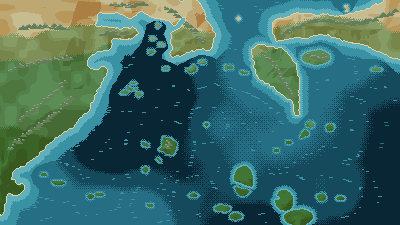
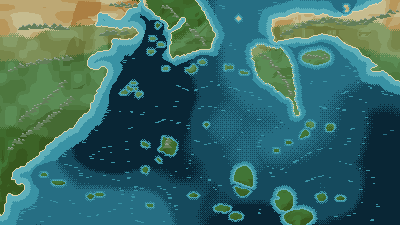
한반도 — 반도를 지운 것은 지형이 아니라 색과 렌더였다
세 회차 동안 해안선 다각형을 고쳐도 한반도가 「곶」으로 읽혔다. 좌표까지
옮겼는데도 그대로였다. 원인은 다각형이 아니라 둘 다 다른 데 있었다.

① 색 — CLIMATE.temperate의 지대 띠가 위도만 봐서 반도의 y0~29가
   만주와 같은 모래색이었다. 눈에는 y29~58짜리 혹만 남는다.
   zones.extra로 한반도만 띠에서 빼 전체를 초록으로.
② 지형 — 다각형에 21px로 있던 서한만이 PNG에는 한 픽셀도 없었다.
   coastOctaves의 push 최대치가 +14.1px인데 좁은 물길 가드는
   seaThick<8일 때만 듣는다. 그 사이, 폭 16~28px 물길은 통째로 메워진다.
   랴오둥을 물리고 서안을 밀어 30~44px로 넓혔다.

  반도로 보이는 세로   y22~58 = 36px  →  y6~58 = 53px
  세로 : 평균폭        0.80 : 1        →  1.43 : 1
  강진                 뭍 0px(섬)      →  뭍 1px · 섬 항구 0

가로가 더 길었다는 것이 그동안의 실상이다.

목표로 걸었던 2.5:1은 이 좌표계에서 불가능하다 — 위도 9.55px/° 대
경도 12.2px/°로 가로가 1.6배 늘어난 판이고, 폭은 군산창(170,36)↔염포
(216,38) 46px이 못박는다. 실제 상한은 약 1.5:1이고 지금이 그 95%다.
더 가려면 관문인 염포를 옮겨야 해서 멈췄다.

규슈:혼슈 면적비 1.6 → 3.4:1(혼슈 3,187→5,410px · 규슈 1,958→1,605px).
남미는 대륙을 가르던 곧은 지대 금을 없애고 지대를 3색으로 나눴다.

★ 「황해가 가장 어둡다」는 실측이 뒤집었다. 상자별 평균밝기가 황해 82.2 ·
동중국해 49.5 · 태평양 52.8로, 황해는 일곱 중 셋째로 밝다. 대륙붕 가중치를
4.5배로 올려 아홉 장을 다시 뽑아 봐도 2점만 움직인다 — 문턱이 분위수라
원양의 33%는 늘 최심색이기 때문이다. scene.js를 파일 단위로 되돌렸다.
아홉 장을 다시 뽑았는데 나머지 일곱 PNG의 바이트가 같다.

아홉 바다 전부 ✅ — 뭍까지 평균 2.1~2.9px · check-map 반려 0건.
카리브·남미는 이미 완성돼 있었고 보고만 안 온 것이었다.

Claude-Session: https://claude.ai/code/session_01JVR1uySXDCdQtcg1L5X2Rb

diff --git a/js/sprites/maps/index.js b/js/sprites/maps/index.js
@@ -247,12 +247,17 @@ export const CLIMATE = {
   // 남아메리카 — 밀림과 안데스, 남쪽으로 갈수록 마른 팜파스
   newworld: {
     land: '#4a8040', alt: ['#356030', '#5e9449', '#8a9a52'],
-    zone: { forest: null, scrub: '#8a9a52', desert: '#c4a874' },
+    /* ★ 회차 26 — 띠가 **둘뿐**이라 남미가 초록/모래 두 쪽으로 갈렸고, 경계가 파장 286px짜리
+       사인 하나여서 화면에서는 **대륙을 가로지르는 곧은 금**으로 보였다(D5·검증가 B가 같이 지적).
+       고유색도 17색으로 아홉 장 중 최소였다. ⇒ 가운데 톤(`mid` = 세하도)을 하나 넣어 셋으로
+       가르고, 두 경계 모두 **긴 파(파장 300px)에 짧은 파(파장 110~130px)를 겹쳐** 흔든다. */
+    zone: { forest: null, mid: '#6d9046', scrub: '#8a9a52', desert: '#c4a874' },
     sea: ['#13566e', '#1c6a84', '#082836'],
     shore: ['#e6d6ac', '#57a8b6', '#3892a6', '#256d86'],
     zones: { bands: [
-      [(x) => 150 + Math.sin(x * 0.022) * 14, 'forest'],
-      [Infinity, 'scrub'],
+      [(x) => 126 + Math.sin(x * 0.021 + 1) * 13 + Math.sin(x * 0.057) * 9, 'forest'],   // 아마존
+      [(x) => 168 + Math.sin(x * 0.017 + 3) * 15 + Math.sin(x * 0.048 + 1) * 8, 'mid'],  // 세하도·차코
+      [Infinity, 'scrub'],                                                               // 팜파스
     ] },
   },
   // 동아시아 — 온대림, 북쪽으로 갈수록 마른다
@@ -265,12 +270,28 @@ export const CLIMATE = {
        사막이 된다. 동아시아는 **북쪽이** 마르는 바다다(만주·화북). 그래서 26을 주었더니
        육지가 통째로 모래색이 되어 "광저우가 사막에 있다"는 말을 들었다.
        `extra`로 직접 가른다 — 북에서 남으로 사막 → 관목 → 온대(기본색) → 짙은 상록수. */
-    zones: { bands: [
-      [(x) => 28 + Math.sin(x * 0.03 + 1) * 8, 'desert'],
-      [(x) => 54 + Math.sin(x * 0.03 + 1) * 8, 'scrub'],
-      [(x) => 124 + Math.sin(x * 0.02) * 14, 'mid'],   // `zone`에 없는 이름 → 기본 온대 초록
-      [Infinity, 'forest'],
-    ] },
+    /* ★★ 한반도만 띠에서 뺀다(회차 26). 위 띠는 **위도**만 보므로 y<29가 통째로 사막색이 되고,
+       그러면 한반도의 북쪽 절반이 만주·화북과 **같은 모래색**이 되어 대륙에 녹아 붙는다.
+       실제 창에서 「한반도가 안 보인다」의 절반은 지형이 아니라 이것이었다 — 반도가 y0~57인데
+       그중 y0~29가 대륙과 한 색이니 눈에는 y29~57짜리 뭉툭한 혹만 남는다.
+       고증으로도 이쪽이 맞다: 만주·화북은 마른 스텝이지만 **한반도는 남북이 다 산림**이다.
+       상자는 반도만 감싼다(x150~226 · y5~64) — 울릉도(238,18)·쓰시마(228,67)·제주(190,68)는 밖이다.
+       y>5로 잘라 만주와 이어지는 맨 위 5px은 대륙색으로 남긴다(가로 이음매가 화면 밖 가장자리에 숨는다). */
+    zones: {
+      extra: (x, y) => {
+        if (y >= 64 || x >= 226) return null;                       // 울릉도(238,18)·쓰시마(228,67)는 밖
+        // 만주와 가르는 선 — 압록강~두만강. **직선이면 자 자국**이라 흔들고, y16부터는 x150에 묶는다
+        // (안 묶으면 선이 남쪽으로 계속 밀려 반도 서안을 되먹는다)
+        if (x <= Math.min(150, 134 + y * 1.1) + Math.sin(y * 0.3) * 3) return null;
+        return y < 30 + Math.sin(x * 0.07 + 2) * 6 ? 'forest' : 'mid';   // 북쪽은 산림, 남쪽은 온대
+      },
+      bands: [
+        [(x) => 28 + Math.sin(x * 0.03 + 1) * 8, 'desert'],
+        [(x) => 54 + Math.sin(x * 0.03 + 1) * 8, 'scrub'],
+        [(x) => 124 + Math.sin(x * 0.02) * 14, 'mid'],   // `zone`에 없는 이름 → 기본 온대 초록
+        [Infinity, 'forest'],
+      ],
+    },
   },
 };
 

diff --git a/js/sprites/maps/eastasia.js b/js/sprites/maps/eastasia.js
@@ -12,61 +12,61 @@
 export const GRID = { gw: 200, gh: 113, gs: 2 };
 
 export const SEA_SPANS = {
-    0: [[89,191]],
-    1: [[70,71], [91,189]],
-    2: [[67,73], [93,186]],
-    3: [[49,59], [67,75], [94,184]],
-    4: [[47,61], [66,76], [96,182]],
-    5: [[46,61], [66,78], [97,179]],
-    6: [[46,62], [66,79], [99,176]],
-    7: [[46,62], [65,82], [100,158], [164,171]],
-    8: [[46,63], [65,84], [101,148]],
-    9: [[46,86], [102,144]],
-   10: [[46,89], [103,141]],
-   11: [[46,91], [104,138]],
-   12: [[46,91], [105,137]],
-   13: [[47,89], [106,137]],
-   14: [[67,87], [106,137]],
-   15: [[68,86], [106,137]],
+    0: [[65,73], [94,190]],
+    1: [[63,74], [95,188]],
+    2: [[62,75], [96,185]],
+    3: [[49,56], [62,76], [97,183]],
+    4: [[47,56], [61,77], [98,181]],
+    5: [[46,57], [61,78], [99,178]],
+    6: [[46,57], [61,79], [100,175]],
+    7: [[46,58], [60,80], [101,158], [164,169]],
+    8: [[46,58], [60,81], [102,148]],
+    9: [[46,82], [103,144]],
+   10: [[46,83], [104,141]],
+   11: [[46,83], [104,138]],
+   12: [[46,84], [105,137]],
+   13: [[47,84], [106,137]],
+   14: [[67,84], [106,137]],
+   15: [[68,85], [106,137]],
    16: [[69,85], [107,137]],
-   17: [[68,85], [107,138], [156,164]],
-   18: [[66,86], [107,138], [148,166]],
-   19: [[56,86], [107,138], [140,169]],
-   20: [[56,86], [107,173]],
-   21: [[57,86], [106,179]],
-   22: [[56,86], [106,183]],
-   23: [[56,86], [105,127], [132,186]],
-   24: [[56,85], [98,124], [137,190]],
-   25: [[55,84], [96,124], [140,193]],
-   26: [[51,84], [93,125], [142,197]],
-   27: [[48,83], [90,125], [143,199]],
-   28: [[46,82], [85,125], [144,199]],
-   29: [[45,125], [145,199]],
-   30: [[45,126], [145,199]],
-   31: [[44,126], [146,199]],
-   32: [[45,126], [147,199]],
-   33: [[47,48], [53,126], [147,199]],
-   34: [[54,127], [147,199]],
-   35: [[54,127], [148,199]],
-   36: [[54,127], [148,199]],
-   37: [[53,128], [148,199]],
-   38: [[52,128], [149,199]],
-   39: [[52,129], [149,199]],
-   40: [[51,131], [149,199]],
-   41: [[51,133], [149,199]],
-   42: [[50,134], [149,199]],
-   43: [[49,136], [149,199]],
-   44: [[48,137], [149,199]],
-   45: [[48,138], [149,199]],
-   46: [[47,139], [149,199]],
-   47: [[46,141], [149,199]],
-   48: [[46,142], [149,199]],
-   49: [[46,144], [149,199]],
-   50: [[45,145], [149,199]],
-   51: [[45,145], [149,199]],
-   52: [[45,145], [149,199]],
-   53: [[45,146], [149,199]],
-   54: [[45,146], [149,199]],
+   17: [[68,85], [107,138], [156,163]],
+   18: [[66,85], [107,138], [148,166]],
+   19: [[56,85], [107,138], [140,168]],
+   20: [[56,85], [107,169]],
+   21: [[57,85], [106,170]],
+   22: [[56,85], [106,172]],
+   23: [[56,84], [105,127], [132,174]],
+   24: [[56,84], [99,124], [137,176]],
+   25: [[55,84], [96,124], [140,178]],
+   26: [[51,83], [93,125], [141,179]],
+   27: [[48,83], [90,125], [142,181]],
+   28: [[46,84], [87,125], [143,183]],
+   29: [[45,125], [143,185]],
+   30: [[45,126], [144,186]],
+   31: [[44,126], [144,188]],
+   32: [[45,126], [145,190]],
+   33: [[47,48], [53,127], [145,191]],
+   34: [[54,127], [145,193]],
+   35: [[54,127], [145,195]],
+   36: [[54,128], [146,197]],
+   37: [[53,128], [146,198]],
+   38: [[52,129], [146,199]],
+   39: [[52,130], [146,199]],
+   40: [[51,131], [146,199]],
+   41: [[51,133], [146,199]],
+   42: [[50,135], [147,199]],
+   43: [[49,136], [147,199]],
+   44: [[48,137], [147,199]],
+   45: [[48,139], [147,199]],
+   46: [[47,140], [147,199]],
+   47: [[46,141], [147,199]],
+   48: [[46,143], [147,199]],
+   49: [[46,144], [147,199]],
+   50: [[45,145], [147,199]],
+   51: [[45,145], [148,199]],
+   52: [[45,145], [148,199]],
+   53: [[45,146], [148,199]],
+   54: [[45,146], [148,199]],
    55: [[44,146], [149,199]],
    56: [[43,146], [149,199]],
    57: [[42,146], [149,199]],
